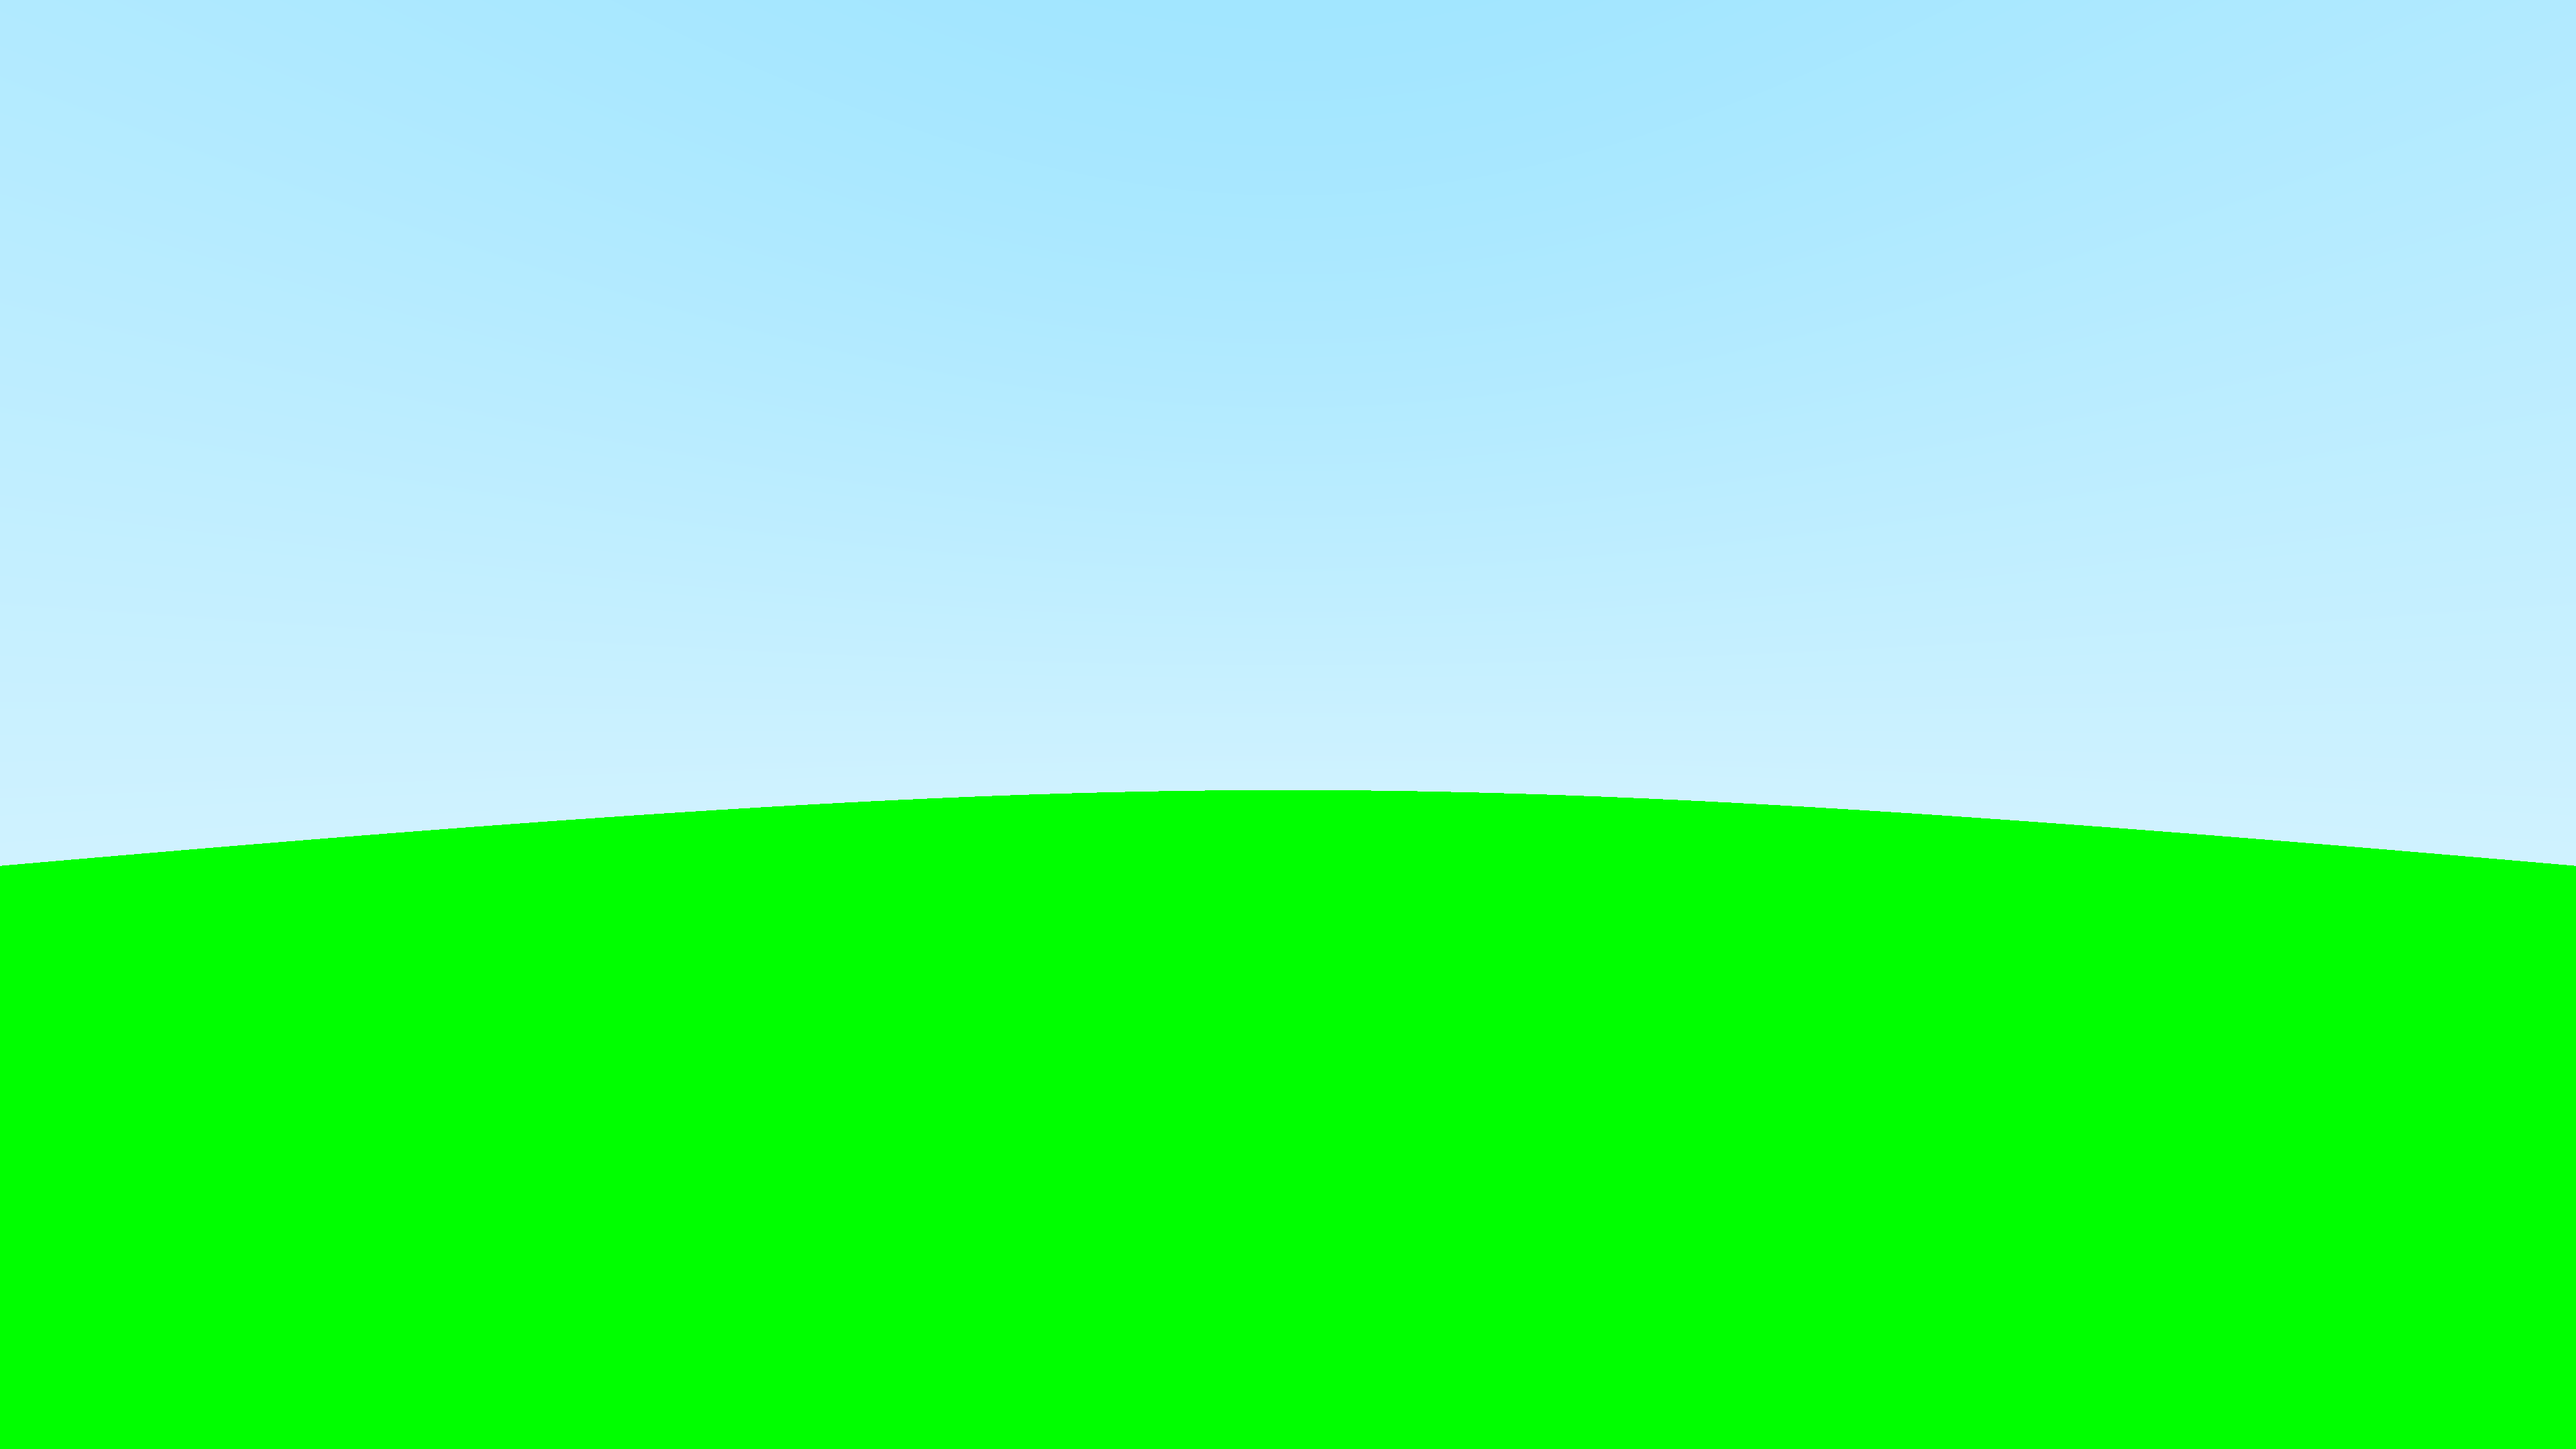
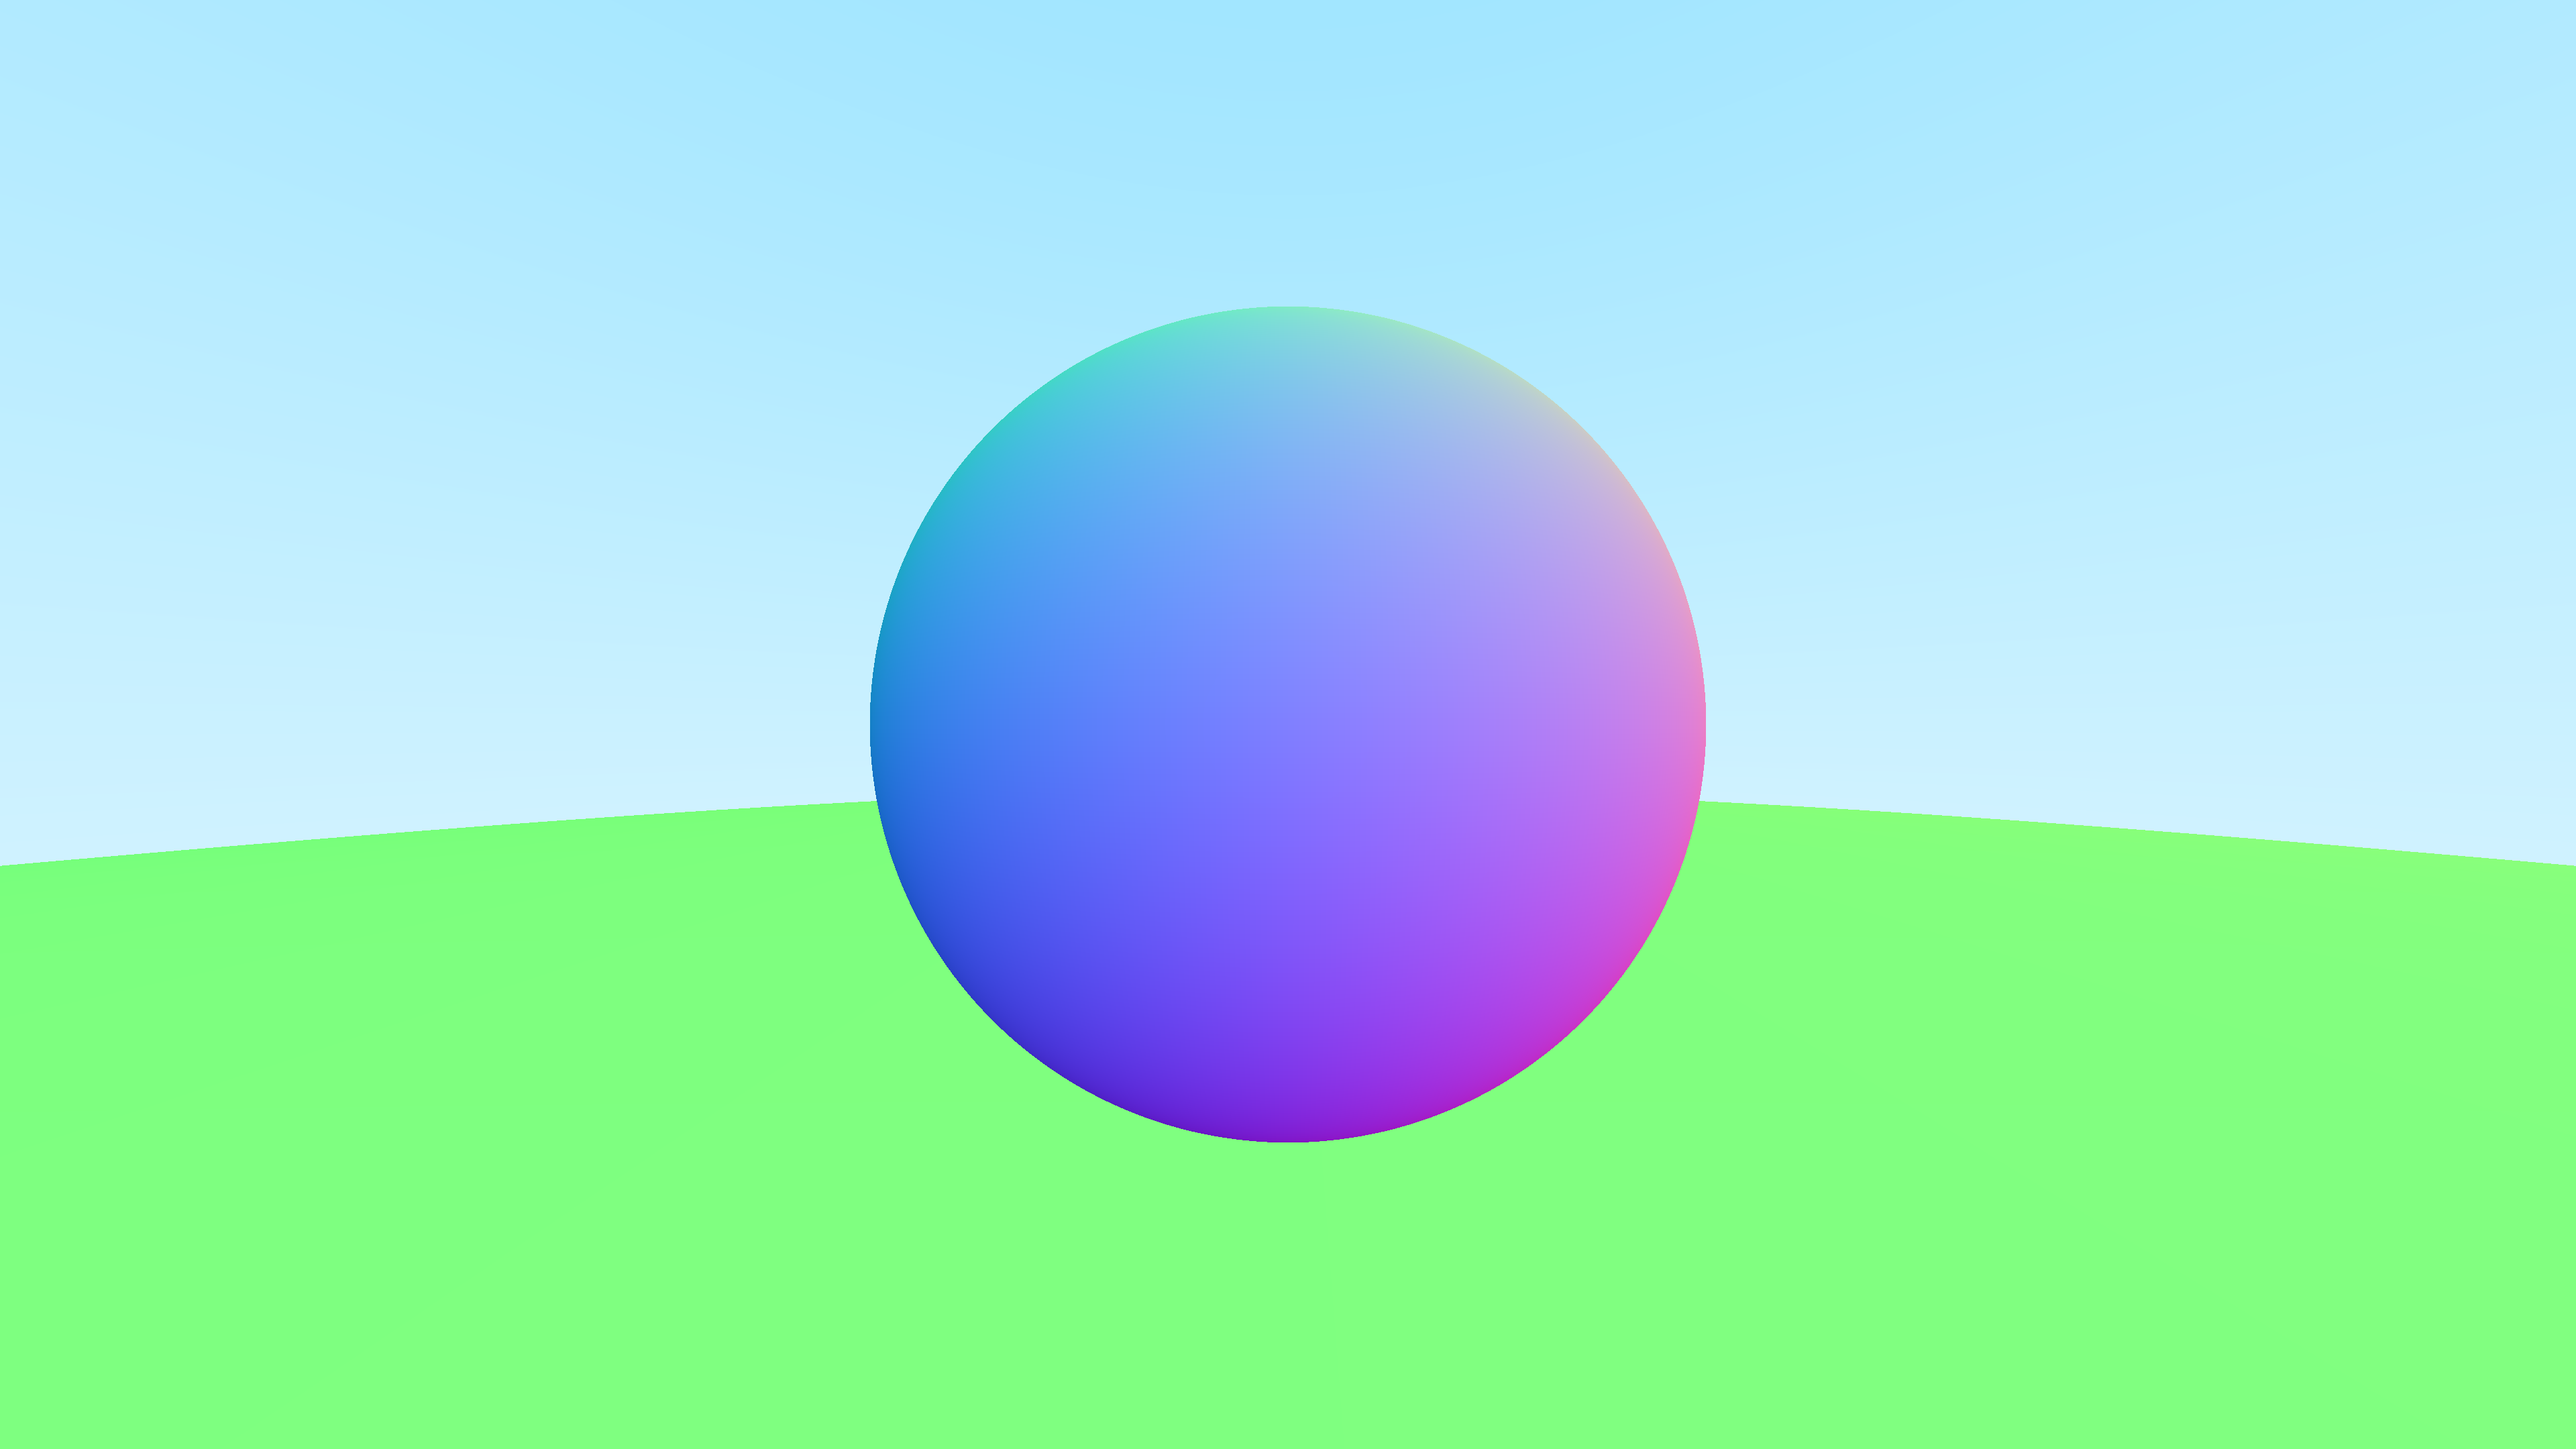
multiple objects, sphere normals

diff --git a/src/tracer/sphere.rs b/src/tracer/sphere.rs
@@ -7,7 +7,7 @@ pub struct Sphere {
 }
 
 impl Sphere {
-    pub fn hit(&self, r: &Ray) -> bool {
+    pub fn hit(&self, r: &Ray) -> f32 {
         let tmp = r.origin - self.origin;
         // coefficients of "hit quadratic"
         let a = r.dir.dot(r.dir);
@@ -16,10 +16,10 @@ impl Sphere {
         let disc = b*b - 4.0*a*c;
 
         if disc < 0.0 {
-            return false;
+            return -1.0;
         }
         let disc_root = disc.sqrt();
         let roots = [(-b + disc_root) / (2.0*a), (-b - disc_root) / (2.0*a)];
-        !roots.iter().all(|&v| v < 0.0)
+        if roots[0] > roots[1] { roots[1] } else { roots[0] }
     }
 }

diff --git a/src/tracer/ray.rs b/src/tracer/ray.rs
@@ -7,9 +7,17 @@ pub struct Ray {
 }
 
 impl Ray {
+    pub fn at(&self, t: f32) -> Vec3 {
+        self.origin + t*self.dir
+    }
+
     pub fn color(&self, scene: &Vec<Sphere>) -> Vec3 {
-        if scene[0].hit(self) {
-            return Vec3::new(0.0, 1.0, 0.0);
+        for sphere in scene {
+            let t = sphere.hit(self);
+            if t > 0.0 {
+                let normal = (self.at(t) - sphere.origin).normalize();
+                return 0.5*(normal + Vec3::ONE);
+            }
         }
         let u = self.dir.normalize();
         let t: f32 = 0.5*(u.y + 1.0);

diff --git a/src/main.rs b/src/main.rs
@@ -16,6 +16,10 @@ fn main() {
     let cam = tracer::camera::def();
     let scene = vec![
         tracer::sphere::Sphere{
+            origin: glam::f32::Vec3::new(0.0, 0.0, -1.0),
+            radius: 0.5
+        },
+        tracer::sphere::Sphere{
             origin: glam::f32::Vec3::new(0.0, -100.5, -1.0),
             radius: 100.0
         }
